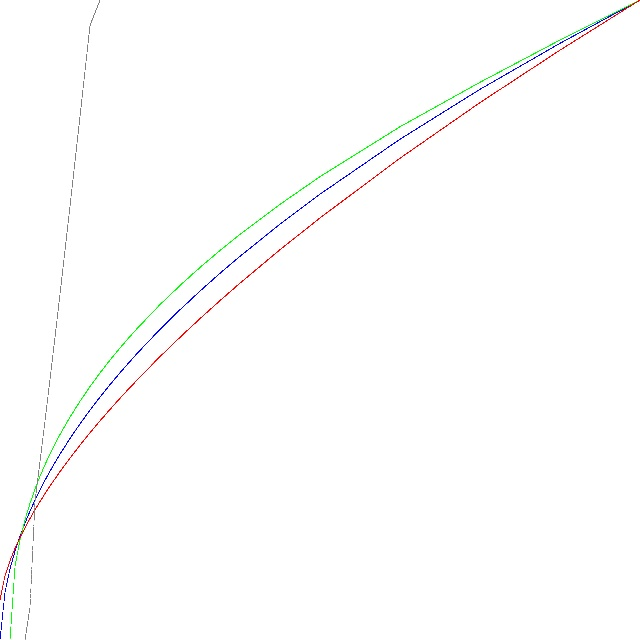
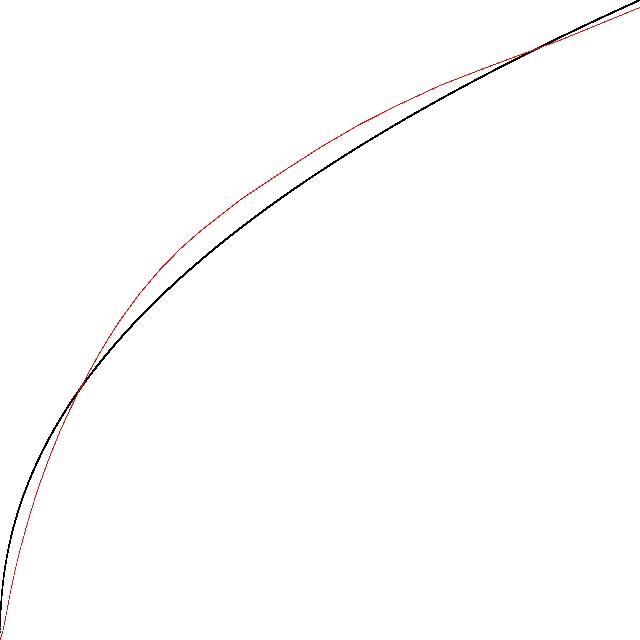
Camera; improve the ae_cureve

diff --git a/ae_curve/aeCurve.cpp b/ae_curve/aeCurve.cpp
@@ -7,113 +7,131 @@
 
 using namespace std;
 using namespace cv;
+double ratio_max = 1.3f;
+double ratio_target1 = 1.005;
+int detla1 = 30;
+int target1 = 600;
+double para_curve_coff1 = 1/5.f;
 
+double ratio_min = 0.1f;
+double ratio_target2 = 0.995f;
+double para_curve_coff2 = 1.3f;
+int para_curve_detla2 = 100;
+int detla2 = 50;
+int target2 = 5000 - target1;
+
+#define MIN_VALUE 0
+#define MAX_VALUE 5000
+#define STABLE_VALUE 500
 #define EXPONENT 0
-int detla = 50;
-double ratio_min = 0.3f;
-double ratio_max = 1.5f;
 
-double base = 1.02f;
-double para_curve_coff1 = 3;// 0-10
-double para_curve_coff2 = 1.5;// 10-100
-int main( int argc, char **argv) {
+int g_convergent_table_index[] = {
+    0, 50, 100, 150, 200, 250, 300, 350, 400, 450, 500,
+    550, 600, 650, 700, 750, 800, 850, 900, 950, 1000,
+    1100, 1200, 1300, 1400, 1500, 1600, 1700, 1800, 1900, 2000,
+    2200, 2400, 2600, 2800, 3000, 3300, 3600, 3900, 4200, 4500, 5000
+};
 
-#if EXPONENT
-    // y = a * pow(base, x) + b;
-    double aa = (ratio_max - 1.f) / ( pow(base, 0) - pow(base, 10));
-    double bb = ratio_max - aa * pow(base, 0);
-    double a = (1.f - ratio_min) / (pow(base, 10) - pow(base, 100));
-    double b = 1.f - a * pow(base, 10);
-#else
-    // y = a * pow(x, para_curve_coff) + b;
+#define LOG2 (0.693147f)                                                                          
+#define LOG3 (1.098612f)
+#define EXIF_LOG2(x) (log((float)(x))/LOG3) // log2(x)   
+int main(int argc, char **argv) {
+    // get the curve of low light.
+    // y = a * log2(x) + b;
+    // x = 25, y = 1.5;
+    // x = 500, y = 1.005;
+    double a = (ratio_max -ratio_target1) / (pow(detla1, para_curve_coff1) - pow(target1, para_curve_coff1));
+    double b = ratio_max - a * pow(detla1, para_curve_coff1);
+    int count = 0;
+    printf("a = %6lf, b = %6lf, detla = %d, count = %d\n", a, b, detla1, target1 / detla1);
+    for (int i = detla1; i <= target1; i+= detla1) {
+        count++;
+        printf("{%d, %6lf},\n", i,  a * pow(i, para_curve_coff1) + b);
+        if (count % 10 == 0) {
+            printf("\n");
+        }
+    }
+
+    a = (ratio_target2 - ratio_min) / (pow (detla2, para_curve_coff2) - pow(target2, para_curve_coff2));
+    b = ratio_min - a * pow(target2, para_curve_coff2);
+    printf("a = %6lf, b = %6lf, detla = %d, count = %d\n", a, b, detla2, target2 / detla2);
+    count = 0;
+    for (int i = detla2; i <= target2; i+= detla2) {
+        count++;
+        printf("{%d, %6lf},\n", i + target1, a * pow(i, para_curve_coff2) + b);
+        if (count % 10 == 0) {
+            printf("\n");
+        }
+    }
+    printf("\n");
+    return 0;
+}
+#if 0
+int main(int argc, char **argv) {
+    // y = a * pow (x, para_curve_coff) + b
+
+    // from MIN_VALUE to STABLE_VALUE.
     double bb = ratio_max;
-    double aa = (1.f - ratio_max) / pow(10, para_curve_coff1);
+    double aa = (1.005f - bb) / pow(STABLE_VALUE, para_curve_coff1);
 
-    double a = ( 1 - ratio_min) / (double)(pow(10, para_curve_coff2) - pow(100, para_curve_coff2));
-    double b =  1 - pow(10, para_curve_coff2) * a;
+
+    // from STABLE_VALUE to MAX_VALUE
+    double a = (0.995 - ratio_min) / (pow(STABLE_VALUE, para_curve_coff2) - pow(MAX_VALUE, para_curve_coff2));
+    double b = 0.995 - pow (STABLE_VALUE, para_curve_coff2) * a;
+
     cout << "aa = " << aa << endl;
     cout << "bb = " << bb << endl;
     cout << "a = " << a << endl;
     cout << "b = " << b << endl;
-#endif
-    {
-        for (int i = 0; i <= 20; i++) {
-            if (i %10 == 0) {
-                cout << endl;
-            }
-            cout << " " <<setw(8) << i * 25 << ",";
-        }
-        for (int i = 10; i <= 100; i++) {
-            if (i %10 == 0) {
-                cout << endl;
-            }
-            cout << " " <<setw(8) << i * 50 << ",";
-        }
-        cout << endl;
+
 #if 0
-        for (int i = 0; i < 10; i++) {
-            cout << " " << setw(8) << aa * pow(base, i) + bb  << ",";
-        }
-        for (int i = 10; i <= 100; i++) {
-            if (i % 10 == 0) cout << endl;
-            cout << " " << setw(8) << a * pow(base, i) + b << ",";
-        }
-        cout << endl;
-#endif
+    for (int i = 0; i <= STABLE_VALUE; i += para_curve_detla1) {
+        cout << " " << i << ",";
     }
-    int hist_h = ratio_max * 100;
-    const int weight_coff = 5;
-    int hist_w = 101 * weight_coff;
+
+    cout << endl;
+
+    for (int i = STABLE_VALUE; i <= MAX_VALUE; i += para_curve_detla2) {
+        cout << " " << i << ",";
+    }
+    cout << endl;
+#endif
+
+    int hist_w = MAX_VALUE;
+    int hist_h = ratio_max * 1000;
+
     Mat histImage(hist_h, hist_w, CV_8UC3, Scalar(255,255,255));
     vector<Mat> hist_planes;
     split(histImage, hist_planes);
 
-    for (int i = 0; i <= 20; i++) {
-        float j = (float) i / 2.f;
-#if EXPONENT
-        double tmp = aa * pow(base, 10 - j) + bb;
-#else
-        double tmp = aa * pow(10-j, para_curve_coff1) + bb;
-#endif
-        if (i%10 == 0) cout << endl;
-
-        cout << " " << setw(8) << double(ratio_max - tmp + 1) << ",";
-        int k = (ratio_max - tmp + 1) * 100;
-        hist_planes[0].at<uchar>(k, j * weight_coff) = 255;
-        hist_planes[1].at<uchar>(k, j * weight_coff) = 0;
-        hist_planes[2].at<uchar>(k, j * weight_coff) = 0;
-    }
-
-    for (int i = 10; i < hist_w / weight_coff; i++) {
-#if EXPONENT
-        double tmp = a * pow(base, i) + b;
-#else
-        double tmp = a * pow(i, para_curve_coff2) + b;
-#endif
-        if (i % 10 == 0) cout << endl;
-        cout << " " << setw(8) << tmp << ",";
-
-        int k = tmp * 100;
-        hist_planes[0].at<uchar>(k, i * weight_coff) = 255;
-        hist_planes[1].at<uchar>(k, i * weight_coff) = 0;
-        hist_planes[2].at<uchar>(k, i * weight_coff) = 0;
-    }
-
-    cout << endl;
-    Mat flipHistImage(hist_h, hist_w, CV_8UC3, Scalar(255,255,255));
-    vector<Mat> flip_planes;
-    split(flipHistImage, flip_planes);
-    for (int i = 0; i < hist_w; i++) {
-        for (int j = 0; j < hist_h; j++) {
-            flip_planes[0].at<uchar>(j, i) = hist_planes[0].at<uchar>(hist_h - j -1, i);
-            flip_planes[1].at<uchar>(j, i) = hist_planes[1].at<uchar>(hist_h - j -1, i);
-            flip_planes[2].at<uchar>(j, i) = hist_planes[2].at<uchar>(hist_h - j -1, i);
+    int index = 0;
+    for (int i = 0; i < sizeof (g_convergent_table_index) / sizeof (int); i++) {
+        printf("%6d, ", g_convergent_table_index[i]);
+        if (i % 5 == 0) {
+            printf("\n");
         }
     }
-    merge(flip_planes, flipHistImage);
+    printf("\n");
+    for (int i = 0; i <= MAX_VALUE; i++) {
+        double tmp = 0.f;
+        if (i <= STABLE_VALUE) {
+            tmp = aa * pow(STABLE_VALUE - i, para_curve_coff1) + bb;
+            tmp = ratio_max - tmp +1;
+        } else {
+            tmp = a * pow(i, para_curve_coff2) + b;
+        }
+        if (i == g_convergent_table_index[index]) {
+            printf("%.5f, ", tmp);
+            if (index % 5 == 0) {
+                printf("\n");
+            }
+            index++;
+        }
 
-    namedWindow("histogram", WINDOW_AUTOSIZE);
-    imshow("histogram", flipHistImage);
-    waitKey(0);
+    }
+    printf("\n");
+
     return 0;
 }
+
+#endif

diff --git a/gamma/samGamma.cpp b/gamma/samGamma.cpp
@@ -16,10 +16,10 @@ int gamma_table[][2] = {
 };
 
 int gamma_table_low_light[][2] = {
-    {0,0},{64,153},{128,339},{256,780},{384,1296},{512,1842},{640,2388},{768,2918},
-    {896,3384},{1024,3802},{1280,4511},{1536,5144},{1792,5699},{2048,6204},{2304,6677},{2560,7125},
-    {2816,7566},{3072,7978},{3584,8694},{4096,9327},{4608,9894},{5120,10388},{6144,11218},{7168,11915},
-    {8192,12564},{9216,13157},{10240,13680},{11264,14163},{12288,14576},{13312,14981},{14336,15391},{16384,16275},
+{0,0},{64,184},{128,488},{256,1167},{384,1775},{512,2298},{640,2769},{768,3215},
+{896,3630},{1024,4016},{1280,4714},{1536,5345},{1792,5903},{2048,6419},{2304,6905},{2560,7360},
+{2816,7786},{3072,8183},{3584,8879},{4096,9482},{4608,10008},{5120,10461},{6144,11262},{7168,11947},
+{8192,12607},{9216,13204},{10240,13719},{11264,14196},{12288,14594},{13312,14978},{14336,15354},{16384,16193},
 };
 
 
@@ -100,7 +100,7 @@ int main(int arg, char **argv) {
 
         for (int x = x1; x < x2; x++) {
             int y = a * x + b;
-            dot(gamma_planes, x, y, 10, 255, 0, 0);
+            //dot(gamma_planes, x, y, 10, 255, 0, 0);
         }
     }
     for (int i = 0; i < 31; i++) {
@@ -114,17 +114,17 @@ int main(int arg, char **argv) {
 
         for (int x = x1; x < x2; x++) {
             int y = a * x + b;
-            dot(gamma_planes, x, y, 10, 255, 0, 0);
+            //dot(gamma_planes, x, y, 10, 255, 0, 0);
         }
 
 
     }
 
     for (int i = 0; i < 31; i++) {
-        int x1 = gamma_table_albert_outdoor[i][0];
-        int y1 = gamma_table_albert_outdoor[i][1];
-        int x2 = gamma_table_albert_outdoor[i+1][0];
-        int y2 = gamma_table_albert_outdoor[i+1][1];
+        int x1 = gamma_table_low_light[i][0];
+        int y1 = gamma_table_low_light[i][1];
+        int x2 = gamma_table_low_light[i+1][0];
+        int y2 = gamma_table_low_light[i+1][1];
         double a = (y2 -y1) / (double)(x2 - x1);
         double b =  y1 - a * x1;
         cout << a << "," << b << endl;

diff --git a/gamma/willisGamma.cpp b/gamma/willisGamma.cpp
@@ -17,26 +17,26 @@ int gamma_index[] = {
 
 // normal gamma
 int gamma1_table[] = {
-    0, 916, 1314, 1884, 2326, 2702, 3034, 3336,
-    3615, 3875, 4351, 4784, 5183, 5556, 5907, 6240,
-    6557, 6860, 7433, 7967, 8471, 8948, 9838, 10659, 
-    11425, 12147, 12831, 13483, 14107, 14707, 15284, 16384,
+    0, 1024, 1448, 2048, 2508, 2896, 3238, 3547,
+    3831, 4096, 4579, 5016, 5418, 5792, 6144, 6476,
+    6792, 7094, 7662, 8192, 8688, 9158, 10033, 10836,
+    11585, 12288, 12952, 13584, 14188, 14768, 15325, 16384,
 };
 
 // gamma indoor
 int gamma2_table[] = {
-    1024, 1441, 1679, 2052, 2363, 2638, 2890, 3125,
-    3346, 3557, 3952, 4321, 4668, 4999, 5315, 5619,
-    5913, 6198, 6743, 7262, 7758, 8235, 9143, 9998,
-    10812, 11591, 12340, 13063, 13764, 14444, 15107, 16384,
+    0, 399, 799, 1198, 1598, 1910, 2194, 2456,
+    2703, 2936, 3372, 3776, 4154, 4513, 4855, 5183,
+    5498, 5803, 6385, 6936, 7462, 7965, 8919, 9813,
+    10660, 11468, 12242, 12987, 13707, 14404, 15082, 16384,
 };
 
 // gamma outdoor
 int gamma3_table[] = {
-    0, 448, 980, 1706, 2246, 2693, 3082, 3429,
-    3746, 4038, 4567, 5040, 5471, 5869, 6241, 6590, 
-    6920, 7234, 7821, 8363, 8869, 9344, 10222, 11021,
-    11759, 12448, 13095, 13708, 14290, 14846, 15378, 16384,
+    0, 769, 1539, 2308, 3078, 3499, 3864, 4191 ,
+    4489, 4764, 5262, 5708, 6113, 6488, 6837, 7166 ,
+    7477, 7772, 8325, 8835, 9311, 9758, 10584, 11336, 
+    12031, 12679, 13289, 13865, 14413, 14936, 15437, 16384 ,
 };
 
 int gamma4_table[] = {

diff --git a/gamma/gammaRatio.cpp b/gamma/gammaRatio.cpp
@@ -11,27 +11,37 @@ using namespace cv;
 
 // after experiment. the indoor outdoor ratio should be para_curve.
 
+#define INDOOR 168.0
+#define OUTDOOR 100.0
 int main(int argc, char **argv) {
     // indoor. (1, 0), (300, 1.f);
     // y = a * pow(x, base) + b;
     double indoor_curve_coff = 1.5;
-    double a = (1.f - 0) / (pow(300, indoor_curve_coff) - pow(1, indoor_curve_coff));
+    double a = (1.f - 0) / (pow(INDOOR, indoor_curve_coff) - pow(1, indoor_curve_coff));
     double b = - a * pow(1, indoor_curve_coff);
 
-    for (int i = 1; i <= 300; i++ ) {
+    for (int i = 1; i <= INDOOR; i++ ) {
         printf(" %.6f,", a * pow(i ,indoor_curve_coff) + b);
         if (i %10 == 0) printf("\n");
     }
 
+    printf("\n");
+    printf("\n");
+    printf("\n");
+    printf("\n");
 
     // outdoor. (1, 0), (1000, 1.f);
     double outdoor_curve_coff = 1.5;
-    double aa = (1.f - 0) / (pow(1000, outdoor_curve_coff) - pow(1, outdoor_curve_coff));
+    double aa = (1.f - 0) / (pow(OUTDOOR, outdoor_curve_coff) - pow(1, outdoor_curve_coff));
     double bb = - aa * pow (1, outdoor_curve_coff);
-    for (int i = 1; i <= 1000; i ++) {
+    for (int i = 1; i <= OUTDOOR; i ++) {
         printf(" %.6f,", aa * pow (i, outdoor_curve_coff) + bb);
         if (i %10 == 0) printf("\n");
     }
 
+    printf("\n");
+    printf("\n");
+    printf("\n");
+    printf("\n");
     return 0;
 }
